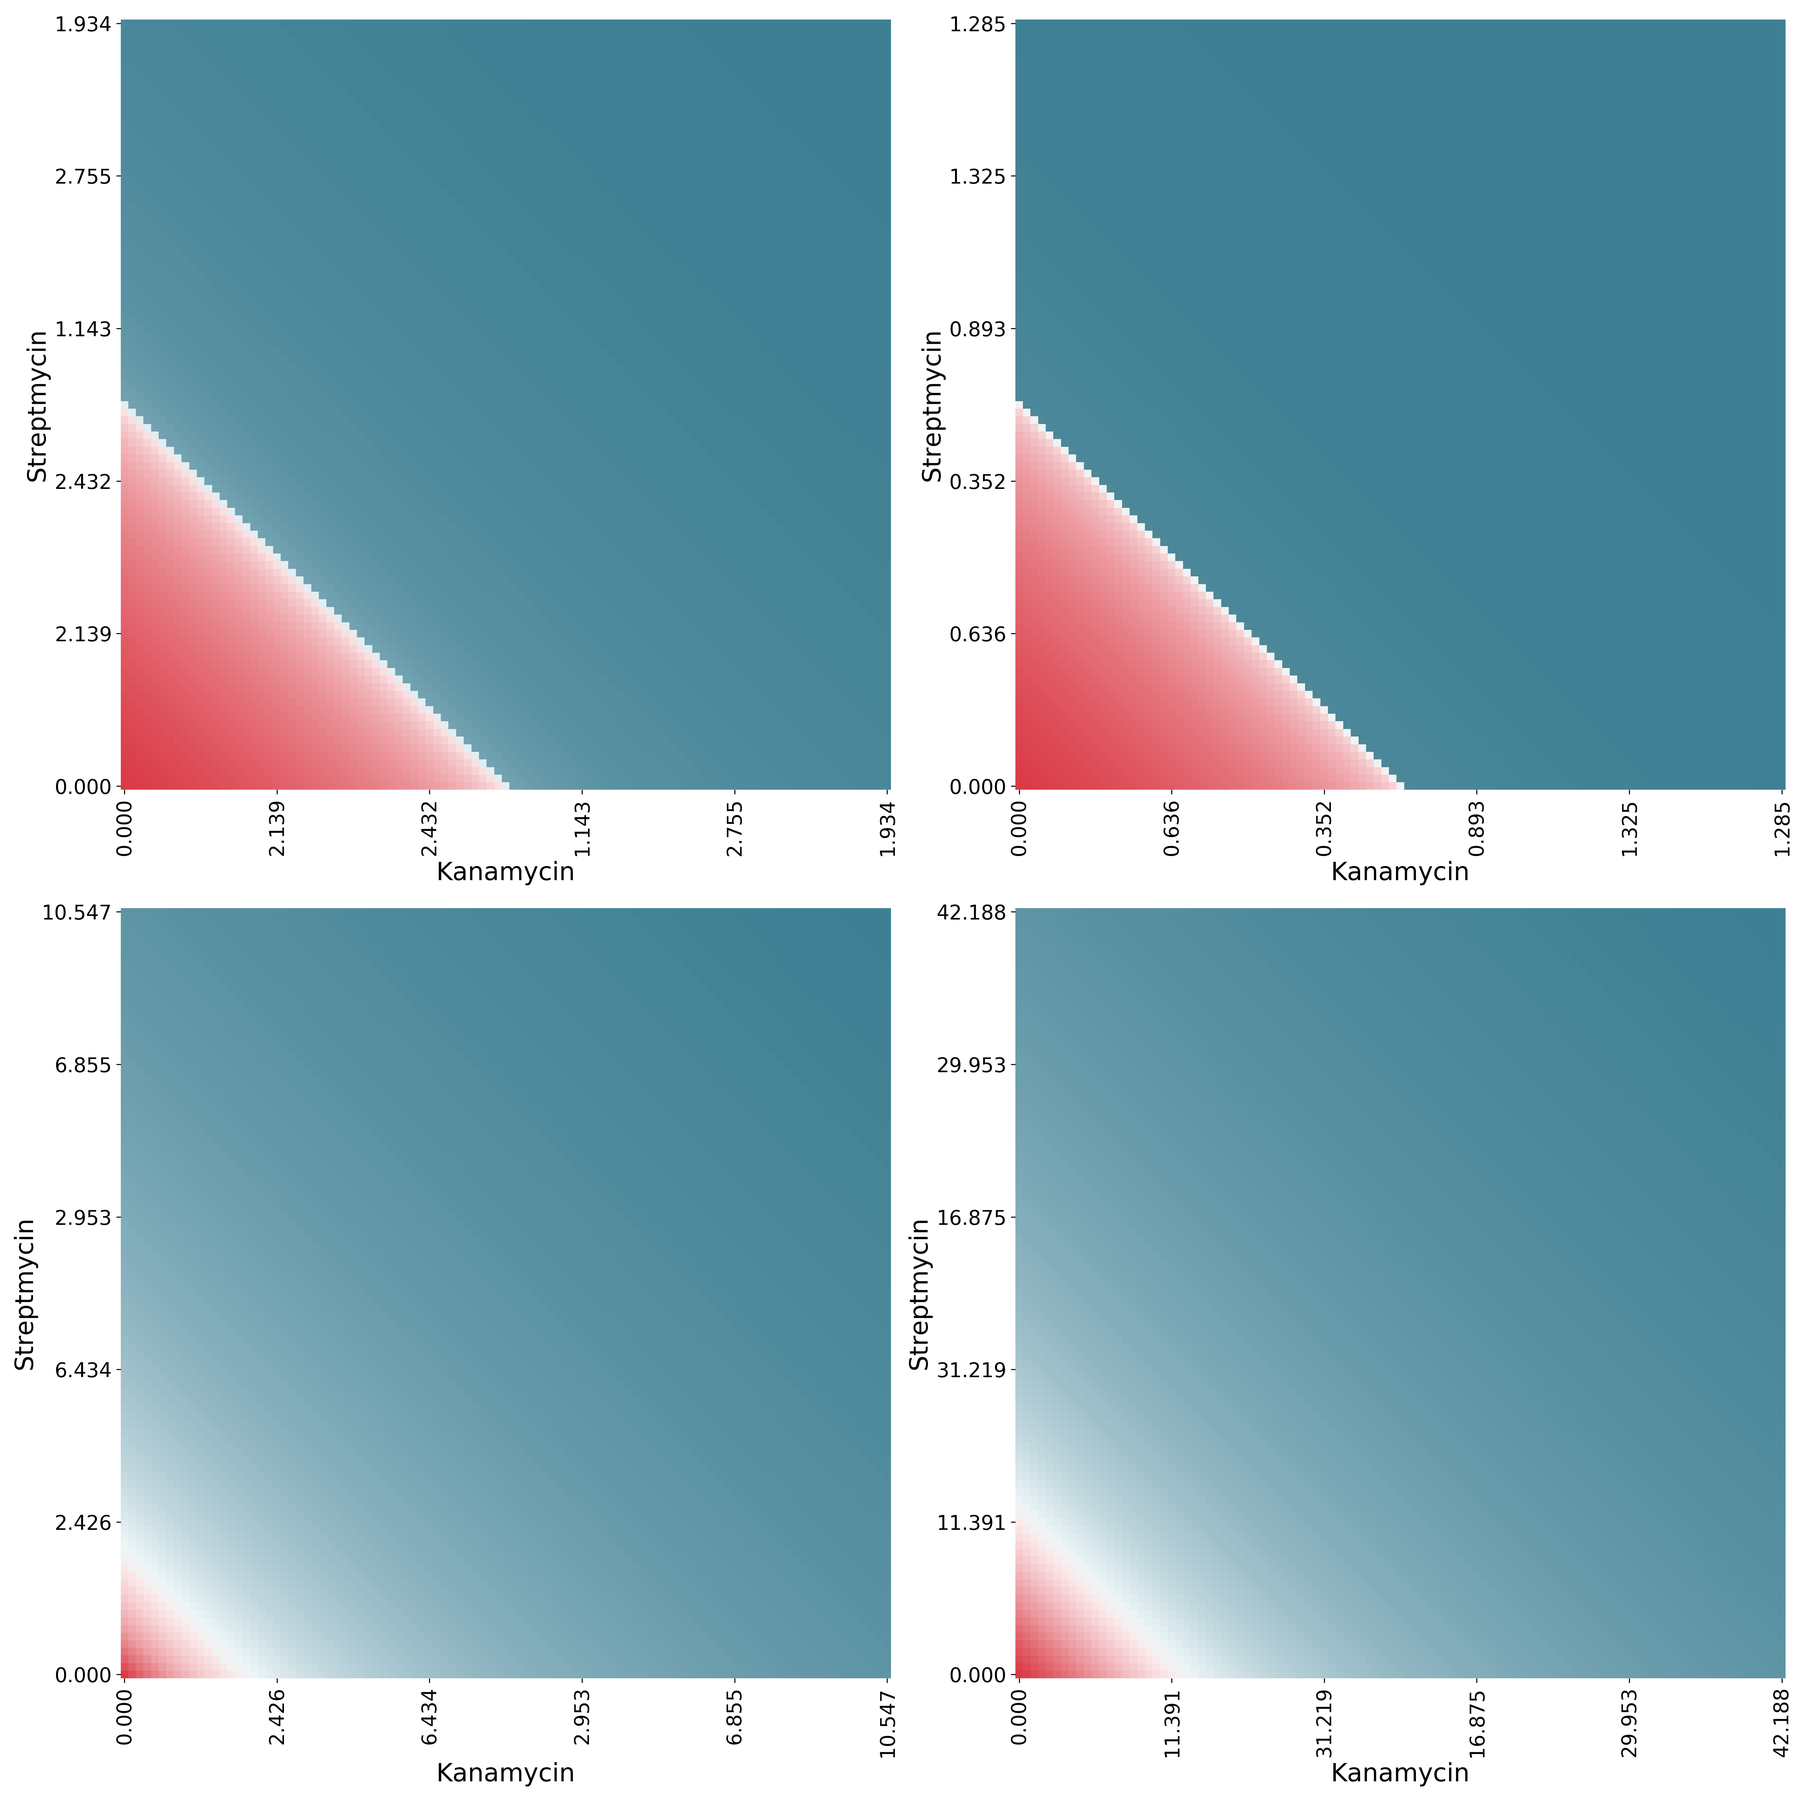
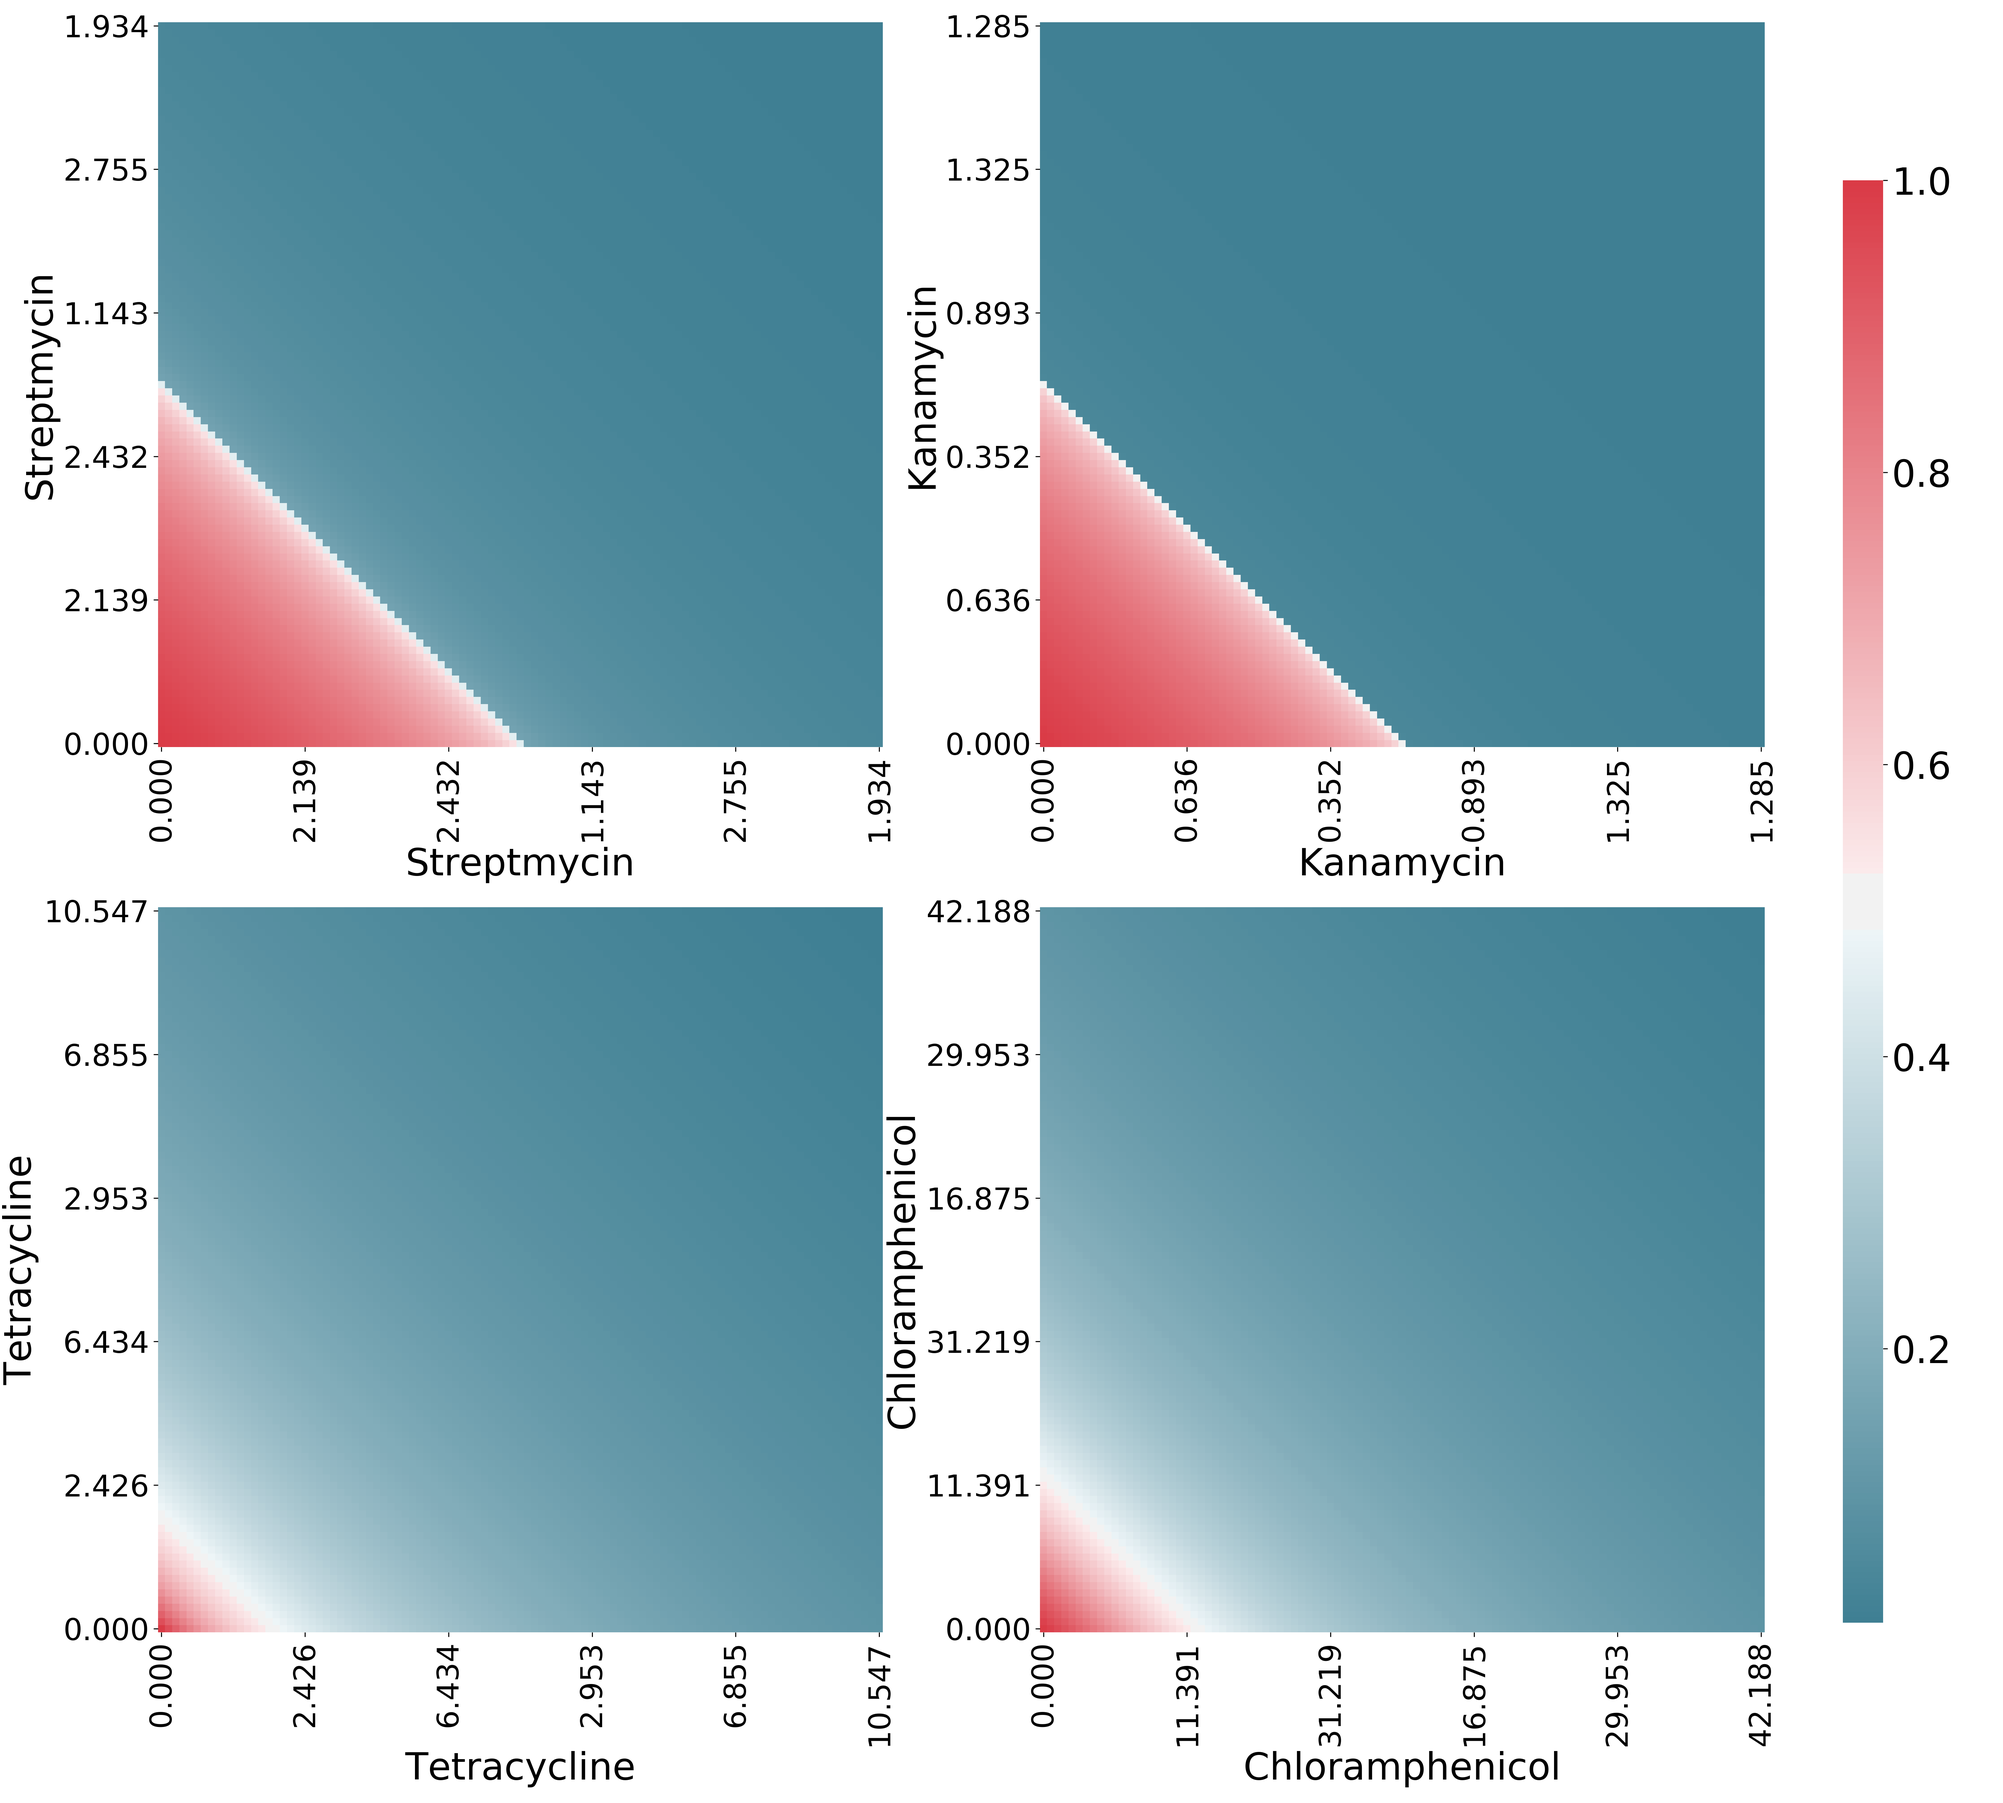
画像の修正
heatmapの位置の修正 & createHeatmap関数の修正

Changed region(s): [[0.0, 0.0, 0.9973, 0.9973]]

diff --git a/run.py b/run.py
@@ -37,41 +37,54 @@ def createSingleGraph(dataPath, savename):
         plt.title(drugName, fontsize=30)
         plt.tick_params(labelsize=14)
     plt.tight_layout()
-    plt.savefig("results/ribo8/single/images/result.png", dpi=300)
+    plt.savefig(savename, dpi=300)
 
-def createHeatmap(data, drugNames, cbar=False, cmap=False):
-    if not cmap: cmap = sns.diverging_palette(220, 10, as_cmap=True) # coler map
-    heatmapData = pd.pivot_table(data=data, values="growth", index="dose1", columns="dose2") # heatmap data
-    ax = sns.heatmap(heatmapData, cbar=cbar, cmap=cmap, square=True) # create Heatmap
-    ax.invert_yaxis()
+def createHeatmap(drugNames, dataLists, subplot, saveName):
+    """
+        drugNames : csv$B$N%U%!%$%kL>$G;HMQ$7$F$$$kLt:^L>$N%j%9%H(B
+        csvdir    : csv$B$,J]B8$5$l$F$$$k%G%#%l%/%H%jL>(B
+        subplot   : $B%0%i%U$N?t$r9TNs$G(B[$B2#(B, $B=D(B]
+    """
+    fig = plt.figure(figsize=(subplot[0] * 100 / 9, subplot[1] * 10))
+    cbar_ax = fig.add_axes([.92, .1, .02, .8])
+    cmap = sns.diverging_palette(220, 10, as_cmap=True)
+    for index, drugName in enumerate(drugNames):
+        plt.subplot(subplot[1], subplot[0], index + 1)
+        data = pd.read_csv(dataLists[index])
+        heatmapData = pd.pivot_table(data = data,
+                                     values = "growth",
+                                     index = "dose1",
+                                     columns = "dose2")
+        ax = sns.heatmap(heatmapData,
+                         cbar = index == 0,
+                         cmap = cmap,
+                         cbar_ax = None if index else cbar_ax,
+                         square = True)
 
-    setTickLabel(data, ax)
+        ax.invert_yaxis() # y$B<4$N>e2<$rJQ$($k(B
+        setTickLabel(data, ax) # $B<4$N@_Dj(B
+        ax.set_ylabel(drugName[0], fontsize = 30) # y$B<4$N%i%Y%k(B
+        ax.set_xlabel(drugName[1], fontsize = 30) # x$B<4$N%i%Y%k(B
+        ax.tick_params(labelsize=24)
 
-    ax.set_ylabel(drugNames[0], fontsize=20) # create ylabel
-    ax.set_xlabel(drugNames[1], fontsize=20) # create xlabel
-
-    ## virtual drug
-    # if drugNames[0] == "Streptmycin": ax.set_ylabel("Pattern A", fontsize=axizFontSize) # create ylabel
-    # else : ax.set_ylabel("Pattern B", fontsize=axizFontSize) # create ylabe
-    # if drugNames    [1] == "Streptmycin": ax.set_xlabel("Pattern A", fontsize=axizFontSize) # create xlabel
-    # else: ax.set_xlabel("Pattern B", fontsize=axizFontSize) # create xlabel
-
-    ax.tick_params(labelsize=16)
+    cbar_ax.tick_params(labelsize = 30)
+    fig.tight_layout(rect = [0, 0, .9, 1.])
+    plt.savefig(saveName, dpi=300)
 
 
 def setTickLabel(data, ax):
-    a1DoseList = list(set(data["dose1"].tolist()))[::20] # y$B<4$KI=<($7$?$$?t$N%j%9%H(B
-    a2DoseList = list(set(data["dose2"].tolist()))[::20] # x$B<4$KI=<($7$?$$?t$N%j%9%H(B
+    dose1DoseList = list(set(data["dose1"].tolist()))[::20] # y$B<4$KI=<($7$?$$?t$N%j%9%H(B
+    dose2DoseList = list(set(data["dose2"].tolist()))[::20] # x$B<4$KI=<($7$?$$?t$N%j%9%H(B
 
     # yticks$B$N@_Dj(B
     dataLenY = len(list(set(data["dose1"].tolist()))) 
-    ax.set_yticks(list(np.linspace(0.5, dataLenY - 0.5, len(a1DoseList))))
-    ax.set_yticklabels(list(map(lambda x:"{:.3f}".format(x), a1DoseList)))
+    ax.set_yticks(list(np.linspace(0.5, dataLenY - 0.5, len(dose1DoseList))))
+    ax.set_yticklabels(list(map(lambda x:"{:.3f}".format(x), dose1DoseList)))
     
     # xticks$B$N@_Dj(B
     dataLenX = len(list(set(data["dose2"].tolist()))) 
-    ax.set_xticks(list(np.linspace(0.5, dataLenX - 0.5, len(a2DoseList))))
-    ax.set_xticklabels(list(map(lambda x:"{:.3f}".format(x), a2DoseList)))
+    ax.set_xticks(list(np.linspace(0.5, dataLenX - 0.5, len(dose2DoseList))))
+    ax.set_xticklabels(list(map(lambda x:"{:.3f}".format(x), dose2DoseList)))
 
 
 if __name__ == "__main__":
@@ -98,24 +111,12 @@ if __name__ == "__main__":
 
     ## SameDrug combination
     drugNameList = [[name, name] for name in drugNames]
-
-    csvdir = "results/ribo8/double/normal"
-    plt.figure(figsize=(20, 20))
-    for index, drugName in enumerate(drugNameList):
-        plt.subplot(2, 2, index + 1)
-        data = pd.read_csv("{}/{}_merge.csv".format(csvdir, "_".join(drugName)))
-        createHeatmap(data, drugNames)
-    plt.tight_layout()
-    plt.savefig("{}/sameDrug.png".format(imagesDirPath), dpi=300)
+    dataLists = ["results/ribo8/double/normal/{}_merge.csv".format("_".join(i)) for i in drugNameList]
+    doubleSaveName = "results/ribo8/images/sameDrug.png"
+    createHeatmap(drugNameList, dataLists, [2, 2], doubleSaveName)
 
     ## differentDrug combination
-    drugNameList = itr.combinations(drugNames, 2)
-    
-    for index, drugName in enumerate(drugNameList):
-        plt.subplot(2, 3, index + 1)
-        data = pd.read_csv("results/ribo8/double/normal/{}_merge.csv".format("_".join(drugName)))
-        createHeatmap(data, drugNames)
-    plt.tight_layout()
-    plt.savefig("{}/diffDrug.png".format(imagesDirPath), dpi=300)
-   
-
+    drugNameList = list(itr.combinations(drugNames, 2))
+    dataLists = ["results/ribo8/double/normal/{}_merge.csv".format("_".join(i)) for i in drugNameList]
+    doubleSaveName = "results/ribo8/images/diffDrug.png"
+    createHeatmap(drugNameList, dataLists, [3, 2], doubleSaveName)

diff --git a/run_ribo4.py b/run_ribo4.py
@@ -20,24 +20,37 @@ def mergeResults(fileNameList):
     df = df.reset_index(drop=True)
     return df
 
-def createHeatmap(data, drugNames, cbar=False, cmap=False):
-    if not cmap: cmap = sns.diverging_palette(220, 10, as_cmap=True) # coler map
-    heatmapData = pd.pivot_table(data=data, values="growth", index="a1", columns="a2") # heatmap data
-    ax = sns.heatmap(heatmapData, cbar=cbar, cmap=cmap, square=True) # create Heatmap
-    ax.invert_yaxis()
+def createHeatmap(drugNames, dataLists, subplot, saveName):
+    """
+        drugNames : csv$B$N%U%!%$%kL>$G;HMQ$7$F$$$kLt:^L>$N%j%9%H(B
+        csvdir    : csv$B$,J]B8$5$l$F$$$k%G%#%l%/%H%jL>(B
+        subplot   : $B%0%i%U$N?t$r9TNs$G(B[$B2#(B, $B=D(B]
+    """
+    fig = plt.figure(figsize=(subplot[0] * 100 / 9, subplot[1] * 10))
+    cbar_ax = fig.add_axes([.92, .1, .02, .8])
+    cmap = sns.diverging_palette(220, 10, as_cmap=True)
+    for index, drugName in enumerate(drugNames):
+        plt.subplot(subplot[1], subplot[0], index + 1)
+        data = pd.read_csv(dataLists[index])
+        heatmapData = pd.pivot_table(data = data,
+                                     values = "growth",
+                                     index = "a1",
+                                     columns = "a2")
+        ax = sns.heatmap(heatmapData,
+                         cbar = index == 0,
+                         cmap = cmap,
+                         cbar_ax = None if index else cbar_ax,
+                         square = True)
 
-    setTickLabel(data, ax)
+        ax.invert_yaxis() # y$B<4$N>e2<$rJQ$($k(B
+        setTickLabel(data, ax) # $B<4$N@_Dj(B
+        ax.set_ylabel(drugName[0], fontsize = 30) # y$B<4$N%i%Y%k(B
+        ax.set_xlabel(drugName[1], fontsize = 30) # x$B<4$N%i%Y%k(B
+        ax.tick_params(labelsize=24)
 
-    ax.set_ylabel(drugNames[0], fontsize=20) # create ylabel
-    ax.set_xlabel(drugNames[1], fontsize=20) # create xlabel
-
-    ## virtual drug
-    # if drugNames[0] == "Streptmycin": ax.set_ylabel("Pattern A", fontsize=axizFontSize) # create ylabel
-    # else : ax.set_ylabel("Pattern B", fontsize=axizFontSize) # create ylabe
-    # if drugNames    [1] == "Streptmycin": ax.set_xlabel("Pattern A", fontsize=axizFontSize) # create xlabel
-    # else: ax.set_xlabel("Pattern B", fontsize=axizFontSize) # create xlabel
-
-    ax.tick_params(labelsize=16)
+    cbar_ax.tick_params(labelsize = 30)
+    fig.tight_layout(rect = [0, 0, .9, 1.])
+    plt.savefig(saveName, dpi=300)
 
 
 def setTickLabel(data, ax):
@@ -67,27 +80,15 @@ if __name__ == "__main__":
         df.to_csv("{}/{}_merge.csv".format(csvdir, "_".join(drugName)), index=False)
 
     # SameDrug combination
-    doubleSaveName = "results/ribo4/images/sameDrug_sim100.png"
     drugNameList = [[name, name] for name in drugNames]
+    dataLists = ["results/ribo4/csv/sim100/{}_merge.csv".format("_".join(i)) for i in drugNameList]
+    doubleSaveName = "results/ribo4/images/sameDrug_sim100.png"
+    createHeatmap(drugNameList, dataLists, [2, 2], doubleSaveName)
 
-    csvdir = "results/ribo4/csv/sim100"
-    fig = plt.figure(figsize=(20, 20))
-    for index, drugName in enumerate(drugNameList):
-        plt.subplot(2, 2, index + 1)
-        data = pd.read_csv("{}/{}_merge.csv".format(csvdir, "_".join(drugName)))
-        createHeatmap(data, drugNames)
-    plt.tight_layout()
-    plt.savefig(doubleSaveName, dpi=300)
 
     # differentDrug combination
+    drugNameList = list(itr.combinations(drugNames, 2))
+    dataLists = ["results/ribo4/csv/sim100/{}_merge.csv".format("_".join(i)) for i in drugNameList]
     doubleSaveName = "results/ribo4/images/diffDrug_sim100.png"
-    drugNameList = itr.combinations(drugNames, 2)
-    
-    fig = plt.figure(figsize=(30, 20))
-    for index, drugName in enumerate(drugNameList):
-        plt.subplot(2, 3, index + 1)
-        data = pd.read_csv("{}/{}_merge.csv".format(csvdir, "_".join(drugName)))
-        createHeatmap(data, drugNames)
-    plt.tight_layout()
-    plt.savefig(doubleSaveName, dpi=300)
- 
+    createHeatmap(drugNameList, dataLists, [3, 2], doubleSaveName)
+
